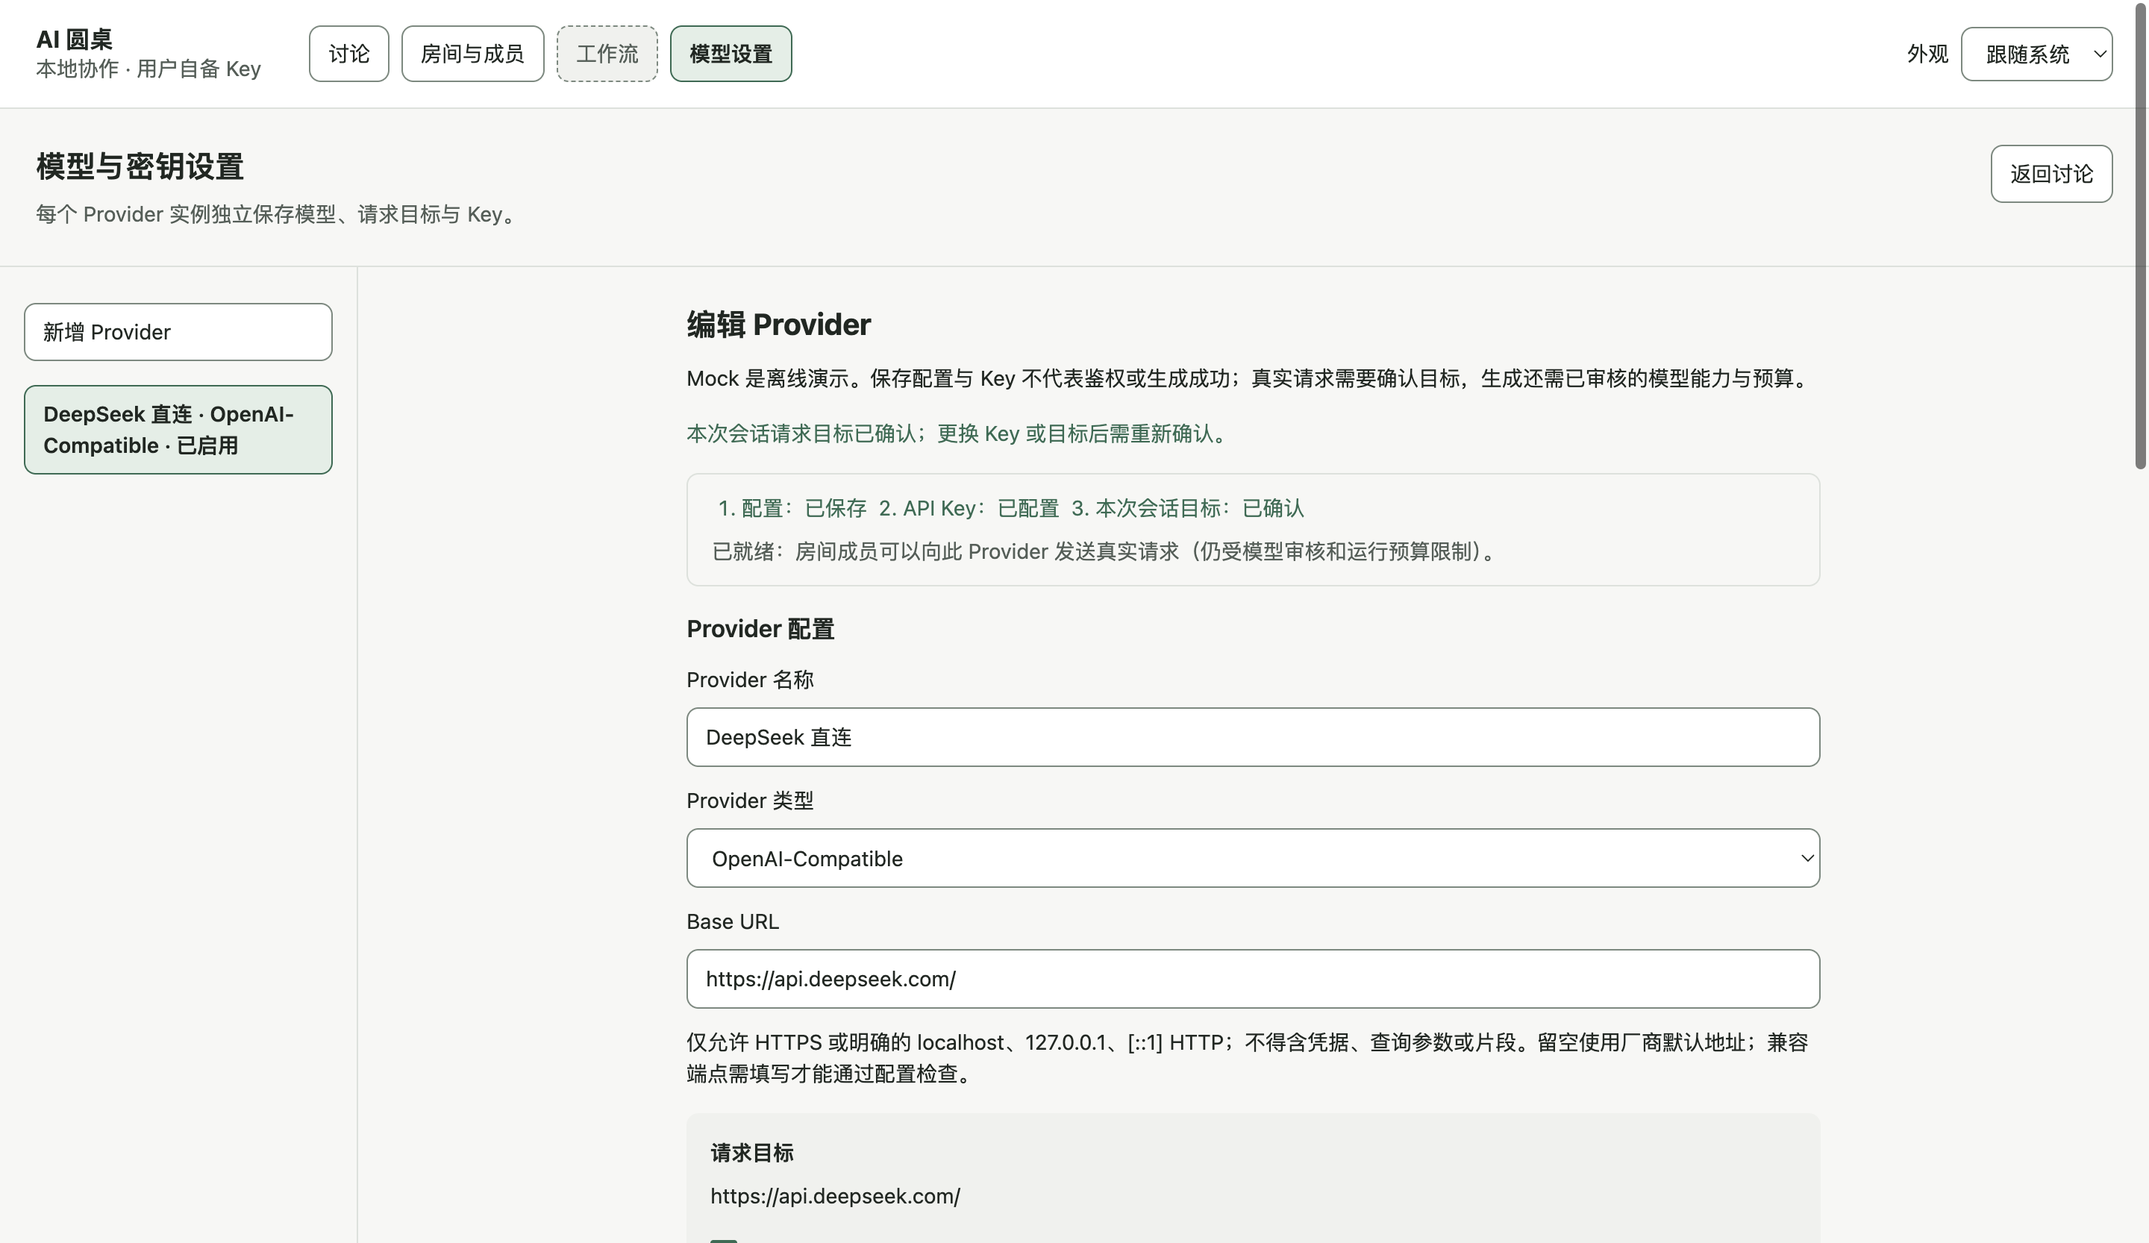
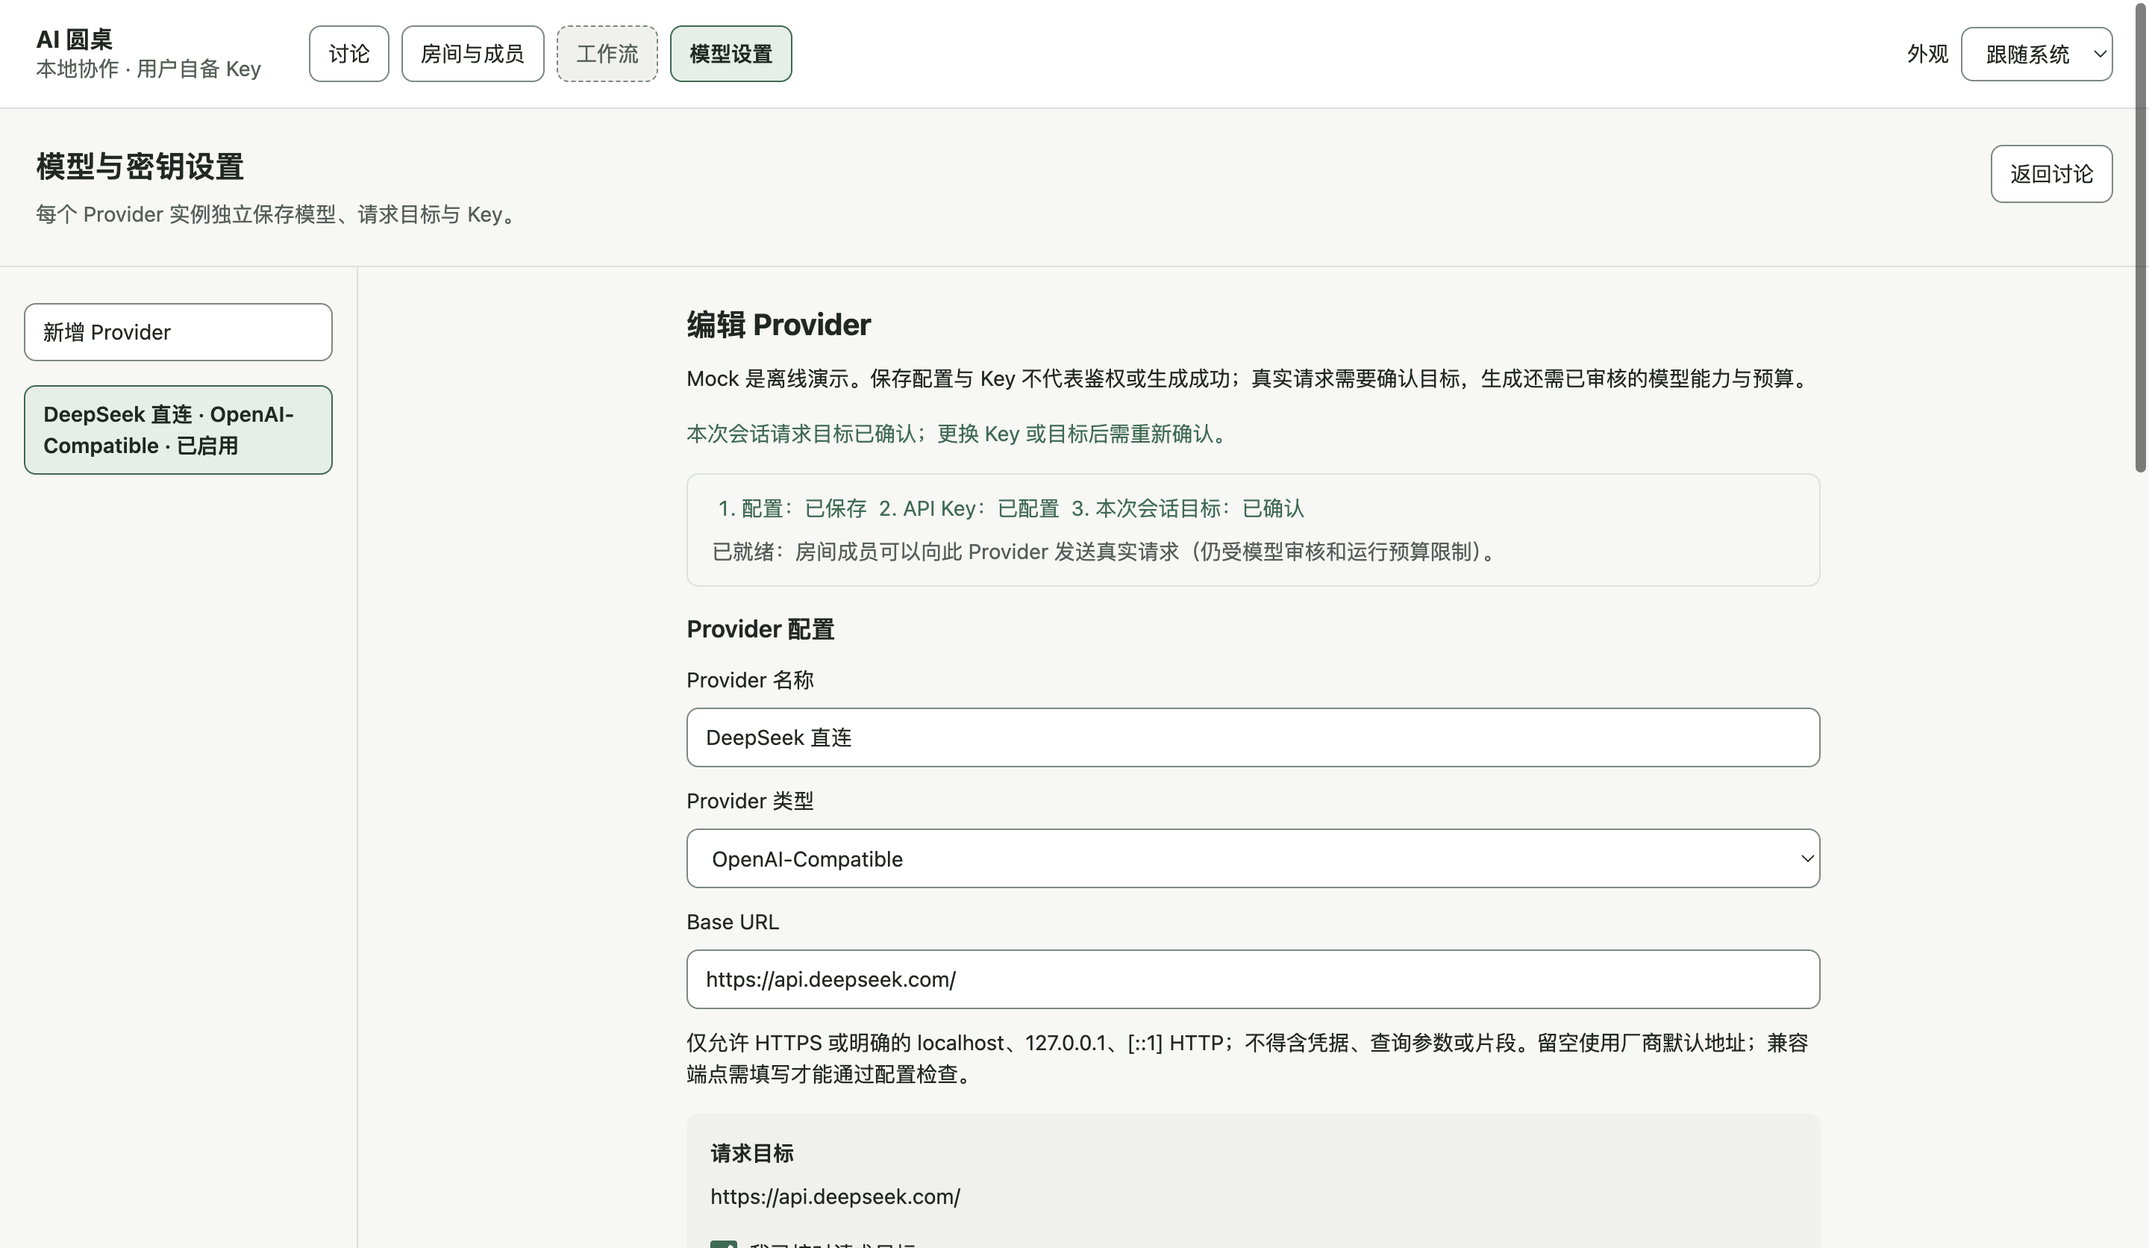
contract: register D102 and D103 and update the pre-merge acceptance record

diff --git a/docs/verification/2026-10-23-premerge-quality.md b/docs/verification/2026-10-23-premerge-quality.md
@@ -1,15 +1,15 @@
 # 合并前质量修复：验收记录（2026-10-23）
 
-分支 `codex/r13a-premerge-quality`，基线 `codex/r13a-real-model-enable`（`b3e3324`，含 R10–R12 与 R13A）。所有检查都在本机执行，**没有发出任何真实 DeepSeek 请求**，也没有读取真实用户目录 `~/Library/Application Support/ai-roundtable`、`…/ai-roundtable-trial` 或真实 Key：测试用假 Key，探针把 `https://api.deepseek.com` 的传输重定向到本机回环夹具，其他出站全部拦截并断言为零。决策见 [DECISIONS](../DECISIONS.md) D095–D101，契约见 [CONTRACTS](../CONTRACTS.md) 同名一节，发给模型的消息对比见 [premerge-quality-context-comparison.md](premerge-quality-context-comparison.md)。
+分支 `codex/r13a-premerge-quality`，基线 `codex/r13a-real-model-enable`（`b3e3324`，含 R10–R12 与 R13A）。所有检查都在本机执行，**没有发出任何真实 DeepSeek 请求**，也没有读取真实用户目录 `~/Library/Application Support/ai-roundtable`、`…/ai-roundtable-trial` 或真实 Key：测试用假 Key，探针把 `https://api.deepseek.com` 的传输重定向到本机回环夹具，其他出站全部拦截并断言为零。决策见 [DECISIONS](../DECISIONS.md) D095–D103，契约见 [CONTRACTS](../CONTRACTS.md) 同名一节，发给模型的消息对比见 [premerge-quality-context-comparison.md](premerge-quality-context-comparison.md)。
 
 ## 三层验收
 
 | 层 | 内容 | 结果 |
 | --- | --- | --- |
-| 自动化测试 | `pnpm run typecheck`；`pnpm test`（Electron 38.8.6 自带 Node，ABI 139）；`pnpm run build` | 通过：typecheck exit 0；126 个文件 / 1893 个测试全部通过（基线 120 / 1820）；build exit 0 |
-| 隔离生产探针 | `r01-electron.cjs`（默认、`--joint-ui`、`--r03-recovery`）；`r07r08-electron.cjs`、`r09-electron.cjs`、`r12-electron.cjs`、`r13a-electron.cjs` 各自首次 + `--restart`；`r10-r11-electron.cjs`（无重启模式） | 全部通过。R01 三种模式 PASS；R07/R08 首次 18 项 Bridge 断言 + UI 流程、重启 PASS；R09 首次 65 项断言 / 12 次夹具请求、重启 5 项 / **0 次请求**；R10/R11 53 项 / 26 次请求；R12 首次 22 项 / 4 次请求、重启 14 项 / **0 次请求**；R13A 首次 13 项 / 4 次请求、重启 12 项 / **0 次请求** |
-| 真实界面实操 | `premerge-quality-acceptance.cjs` 首次 + `--restart`：真实鼠标/键盘事件（DevTools Input 域），中文经输入法组合输入，15 张截图 | 通过：首次 45 项检查、4 次夹具请求；重启阶段 11 项检查、0 次请求；无控制台错误、无网络外联 |
-| 回归实操探针 | `r13a-acceptance.cjs`；`r12-acceptance.cjs` | R13A 通过（21 项、3 次夹具请求）。R12 输入法与停止两步改为等待明确状态后，**连续 5 次全部通过**（每次 24 项检查，停止一步都在第一次尝试就落在第一回合）。重新生成的 R12/R13A 截图已还原，不覆盖原有证据 |
+| 自动化测试 | `pnpm run typecheck`；`pnpm test`（Electron 38.8.6 自带 Node，ABI 139）；`pnpm run build` | 通过：typecheck exit 0；126 个文件 / 1903 个测试全部通过（基线 120 / 1820）；build exit 0 |
+| 隔离生产探针 | `r01-electron.cjs`（默认、`--joint-ui`、`--r03-recovery`）；`r07r08-electron.cjs`、`r09-electron.cjs`、`r12-electron.cjs`、`r13a-electron.cjs` 各自首次 + `--restart`；`r10-r11-electron.cjs`（无重启模式） | 全部通过（D102/D103 之后的最终构建）。R01 三种模式 PASS；R07/R08 首次与重启各 18 项 Bridge 断言 + UI 流程；R09 首次 64 项 / 12 次夹具请求、重启 5 项 / **0 次请求**；R10/R11 53 项 / 26 次请求；R12 首次 22 项 / 4 次请求、重启 14 项 / **0 次请求**；R13A 首次 13 项 / 4 次请求（`max_tokens` 4096、预留 = 输入上界×2 + 4096×8）、重启 12 项 / **0 次请求** |
+| 真实界面实操 | `premerge-quality-acceptance.cjs` 首次 + `--restart`：真实鼠标/键盘事件（DevTools Input 域），中文经输入法组合输入，18 张截图 | 通过：首次 56 项检查、9 次夹具请求；重启阶段 11 项检查、0 次请求；无控制台错误、无网络外联 |
+| 回归实操探针 | `r13a-acceptance.cjs`；`r12-acceptance.cjs` | 最终构建上 R13A 连续 2 次通过（21 项、3 次夹具请求，`max_tokens` 4096）；R12 连续 3 次通过（25 项；原"上限 3 演示失败"路径改为演示截断与续写）。此前 R12 的输入法与停止两步改为等待明确状态后已连续 5 次通过。最终轮里曾有 R12/R13A 因整体超时失败：原因是探针窗口在后台被 Chromium 节流（单次耗时从约 20 秒拉长到 8 分钟以上），三个实操探针都加了 `setBackgroundThrottling(false)` 后恢复到每次约 20 秒。重新生成的 R12/R13A 截图已还原 |
 | 旧探针（已修复） | `r01-electron.cjs`、`r07r08-electron.cjs`、`r09-electron.cjs` | 修复前在基线 `b3e3324` 上同样失败（R01/R07R08 卡在 Bridge 只认四组接口；R09 卡在停止阶段"页面文字 = 全部消息"；R01 `--joint-ui` 同 R09；R01 `--r03-recovery` 在基线上也先卡在 Bridge）。现已按 R12/R13A 行为更新，结果见"隔离生产探针"一行 |
 | 真实模型实测 | 用户自己的 DeepSeek Key 复测讨论质量与账单 | **未验证，待总控和用户一起做** |
 
@@ -28,10 +28,13 @@
 | [09-step-option.png](premerge-quality-screens/09-step-option.png) | 开始前在输入区勾选"每个回合结束后暂停，方便插话或点名"（默认不勾选，勾选后记住），任务用输入法改为"讨论跑腿平台的定价"。 |
 | [10-step-paused-interject.png](premerge-quality-screens/10-step-paused-interject.png) | 开始后起草者说完即自动暂停（页头"已暂停"），没有和模型抢时间；在右侧"插话"用输入法输入"请重点比较按距离计价和固定价"并发送，插话出现在时间线上；输入区提示下一步可以做什么。 |
 | [11-step-next.png](premerge-quality-screens/11-step-next.png) | 点"下一步"：只让审查者发言一次，说完再次自动暂停；脚本核对了它收到的请求体中包含刚才的主持人插话（`【主持人插话】` + 引用）。 |
-| [12-purged-member.png](premerge-quality-screens/12-purged-member.png) | 重启阶段：先把一串合成的 `sk-` 假值直接写进数据库三处模型 ID（Provider 默认模型、自定义模型、审查者的 Model），模拟旧版本留下的数据，再启动。启动时三处全部清除，日志只有"已清除 3 处疑似 API Key 的模型 ID"；数据库文件（含 WAL/SHM）里再也找不到这串明文（启动前能找到）。"房间与成员"里审查者显示"Model 未配置：请编辑成员，填写模型 ID 后才能参与运行"，右侧"未选择模型"，其他成员不受影响。 |
-| [13-purged-member-fixed.png](premerge-quality-screens/13-purged-member-fixed.png) | 点"编辑 审查者"，在 Model 栏重新填 deepseek-flash 并保存：提示消失，审查者恢复正常。 |
-| [14-purged-provider.png](premerge-quality-screens/14-purged-provider.png) | "模型设置"里 DeepSeek 直连的默认模型 ID 已清空（只显示示例），自定义模型只剩 deepseek-flash，疑似 Key 的条目已删除；页面上没有任何密钥文本，也不再需要"已隐藏"的提示。 |
-| [15-provider-name.png](premerge-quality-screens/15-provider-name.png) | 重启后打开上一次运行（成员快照冻结的是 Provider ID）：身份行显示"Drafter · Provider：DeepSeek 直连 · Model：deepseek-flash"，不再显示 UUID；脚本核对讨论页没有任何 UUID。找不到 Provider 时显示"Provider 已删除"等文字（单元测试覆盖）。 |
+| [12-output-limit.png](premerge-quality-screens/12-output-limit.png) | 开始前点输入区的"更多设置"：在控制行上方展开"单次输出上限（token）"（默认 4096，这里改为 2048）并说明它决定每次请求的预留费用、实际按用量结算、写到上限会保留并可续写、不能超过模型允许的最大值（DeepSeek Flash 为 32768）；脚本核对展开前后"开始协作"位置不变。平时收起。 |
+| [13-truncated.png](premerge-quality-screens/13-truncated.png) | DeepSeek 夹具让起草者的回复以 `finish_reason=length` 结束：这条回复保留并标注"已达单次输出上限，内容可能不完整。"，下方有"续写"；运行没有失败，审查者和综合者照常发言，页头"已完成"。脚本核对：三次请求都是 `max_tokens` 2048，都按用量结算；审查者收到的上下文里这条发言带"（此发言因单次输出上限被截断，后面的内容没有写完，可能不完整。）"。 |
+| [14-continued.png](premerge-quality-screens/14-continued.png) | 运行结束后点"续写"：发出新请求（重放原输入，加上原回复和继续写的请求，单独预留和结算），生成"续写 · 当前有效 · 版本 2/2"，内容从原文字接着写；原版本保留为版本 1，后面的发言标为"受影响"。 |
+| [15-purged-member.png](premerge-quality-screens/15-purged-member.png) | 重启阶段：先把一串合成的 `sk-` 假值直接写进数据库三处模型 ID（Provider 默认模型、自定义模型、审查者的 Model），模拟旧版本留下的数据，再启动。启动时三处全部清除，日志只有"已清除 3 处疑似 API Key 的模型 ID"；数据库文件（含 WAL/SHM）里再也找不到这串明文（启动前能找到）。"房间与成员"里审查者显示"Model 未配置：请编辑成员，填写模型 ID 后才能参与运行"，右侧"未选择模型"，其他成员不受影响。 |
+| [16-purged-member-fixed.png](premerge-quality-screens/16-purged-member-fixed.png) | 点"编辑 审查者"，在 Model 栏重新填 deepseek-flash 并保存：提示消失，审查者恢复正常。 |
+| [17-purged-provider.png](premerge-quality-screens/17-purged-provider.png) | "模型设置"里 DeepSeek 直连的默认模型 ID 已清空（只显示示例），自定义模型只剩 deepseek-flash，疑似 Key 的条目已删除；页面上没有任何密钥文本，也不再需要"已隐藏"的提示。 |
+| [18-provider-name.png](premerge-quality-screens/18-provider-name.png) | 重启后打开上一次运行（成员快照冻结的是 Provider ID）：身份行显示"Drafter · Provider：DeepSeek 直连 · Model：deepseek-flash"，不再显示 UUID；脚本核对讨论页没有任何 UUID。找不到 Provider 时显示"Provider 已删除"等文字（单元测试覆盖）。 |
 
 探针另外核对了真实生产构建发给夹具的请求体：审查者那次请求只有一条 user 消息（没有 assistant），其中包含 `【成员「起草者」· Drafter】\n> DeepSeek 夹具回复 1` 和"现在由你（成员「审查者」· Critic）发言"。下拉框（Provider 类型、成员 Provider）是系统原生菜单，脚本以"聚焦 + change 事件"选择，其余均为真实输入事件。
 
@@ -43,6 +46,7 @@
 4. （总控更正问题 4 的根因后重做）输入区原本不固定在窗口底部，流式输出变长会把输入区和其中的按钮往下推——即使按钮原地变成"暂停"，鼠标不动也会落空 → 输入区固定在窗口底部，控制条是最后一行，确认和提示都出现在它上方。
 5. （总控审查后补齐）设置页"分级检查与测试"里旧的"请先勾选'我已核对请求目标'"与 Key 输入框旁的说明重复 → 删除旧句，核对目标只在一处说明。
 6. （总控审查后补齐）成员身份行显示 Provider 的 UUID → 显示名称（D101）。
+7. （真实复测后修复 D102/D103）"更多设置"最初做成控制行里的折叠项，展开后整行换行，"开始协作"被挤到别处，运行后"暂停"就不在原位了 → 面板改为在控制行上方展开，控制行始终一行，脚本核对展开前后开始按钮位置不变。
 
 ## 执行的命令
 
@@ -51,7 +55,7 @@ git branch -m codex/r13a-premerge-quality
 pnpm install --frozen-lockfile --prefer-offline
 pnpm test --reporter=dot            # 基线：120 文件 / 1820 测试
 pnpm run typecheck
-pnpm test --reporter=dot            # 126 文件 / 1893 测试
+pnpm test --reporter=dot            # 126 文件 / 1903 测试
 pnpm run build
 ./node_modules/.bin/electron tests/probes/r01-electron.cjs
 ./node_modules/.bin/electron tests/probes/r01-electron.cjs --joint-ui
@@ -63,11 +67,11 @@ pnpm run build
 ./node_modules/.bin/electron tests/probes/r13a-electron.cjs          # 及 --restart <临时目录>/r13a-manifest.json
 ./node_modules/.bin/electron tests/probes/premerge-quality-acceptance.cjs   # 及 --restart <临时目录>/premerge-manifest.json
 ./node_modules/.bin/electron tests/probes/r13a-acceptance.cjs
-./node_modules/.bin/electron tests/probes/r12-acceptance.cjs         # 连续 5 次
+./node_modules/.bin/electron tests/probes/r12-acceptance.cjs         # 连续多次（见上表）
 ```
 
 ## 未验证
 
-- 真实 DeepSeek 复测：成员是否不再照抄、重新生成是否采用主持人修改后的内容、实际账单（待总控与用户一起做）。
+- 真实 DeepSeek 复测：讨论质量已由总控复测确认改善；D102/D103（截断后继续、续写、默认 4096）的真实复测待总控与用户一起做。
 - 启动清除不处理迁移备份（`backups/backup-*.sqlite3`，只在升级 migration 时生成）；若某个备份生成时已含疑似 Key 的模型 ID，它仍留在备份里，是否删除需用户决定（D100）。
 - 当前没有 lint 和 E2E 命令；跨平台打包未做。

diff --git a/docs/CONTRACTS.md b/docs/CONTRACTS.md
@@ -358,7 +358,7 @@ R13A 子会话（分支 `codex/r13a-real-model-enable`，基线 R12 `15e2e30`）
 
 ## 合并前质量修复（2026-10-23，子会话候选，未合 main）
 
-分支 `codex/r13a-premerge-quality`（基线 `b3e3324`）。总控授权本子会话直接修改共享文件；共享与接线改动以 `contract:` / `wire:` 提交。决策见 [DECISIONS](DECISIONS.md) D095–D101。
+分支 `codex/r13a-premerge-quality`（基线 `b3e3324`）。总控授权本子会话直接修改共享文件；共享与接线改动以 `contract:` / `wire:` 提交。决策见 [DECISIONS](DECISIONS.md) D095–D103。
 
 | 层 | 变化 | 兼容性 |
 | --- | --- | --- |
@@ -370,5 +370,10 @@ R13A 子会话（分支 `codex/r13a-real-model-enable`，基线 R12 `15e2e30`）
 | Database | 读取 Provider / 成员时隐藏类密钥模型 ID 并打标；`validateModelSelection` 用 `modelIdSchema`；新增 `purgeKeyLikeModelIds()`，Main 启动时（初始化后、窗口与 IPC 之前）在一个事务里清除三处类密钥模型 ID，有清除时 `secure_delete` + `VACUUM` + `wal_checkpoint(TRUNCATE)`，只记录数量（D100） | 无 migration、不改表结构；会改写存量数据（清除疑似 Key） |
 | ProviderRegistry / ProviderSettingsService | `isTargetConfirmed(id)`；`getProviderKeyState` 在有注册表时附带 `sessionTargetConfirmed` | IPC 通道不变 |
 | Renderer | 设置页接入进度、Key 输入框就近原因与一键操作、模型 ID 示例与类密钥提示；成员编辑器同样提示；App 输入区固定在窗口底部，运行时"开始协作"原地变为 暂停/继续 · 下一步 · 停止（停止在末尾并轻量确认），右侧面板去掉重复的运行按钮；`HostTimeline` 新增可选 `providers`（名称表与读取状态），身份行显示 Provider 名称而非 ID（D101）；开始前可选逐回合推进（`run.start` 已有的 `mode: 'step'`，未新增字段）；`rendererSession.startRun` 的 limits 增加可选 `mode` | — |
+
+| migration 8 / Database（D102） | `request_attempts.finish_reason`（NULL / stop / length，写入后不可改，触发器 `request_attempt_finish_once`）；`updateAttempt` 接受 `finishReason`；`validateDatabase` 对 v8 校验列、触发器以及"只出现在已完成请求上"；`insertRun` 缺省输出上限 4096 | migration 1–7 未改；当前 schema 版本 7→8，相关测试断言同步 +1 |
+| Shared（D102/D103） | Attempt 记录与快照投影增加可选 `finishReason`；`regenerateMessage` 命令增加可选 `mode: 'continue'`；`DEFAULT_OUTPUT_TOKEN_LIMIT = 4096` | 只增可选字段 |
+| RunService / HostService（D102/D103） | `finish=length` 按截断完成结算并继续调度，content_filter 仍失败；`regenerateMessage(runId, messageId, actionId, mode?)` 的续写版本作业；启动时核对成员模型策略的 `maxOutputTokens` | 公开命令不变（仍是 `host.command` / `run.start`） |
+| Renderer（D102/D103） | 时间线截断标注与「续写」；输入区"更多设置"中的单次输出上限；启动被拒时按字段给出中文原因 | — |
 
 安全影响：防注入边界从"JSON 字段 + 角色"变为"应用标签 + 全行引用"，可信指令仍只在 system 段；Key 不再可能以模型 ID 的形式进入请求、Renderer 或日志；会话目标确认机制与失效规则不变。
